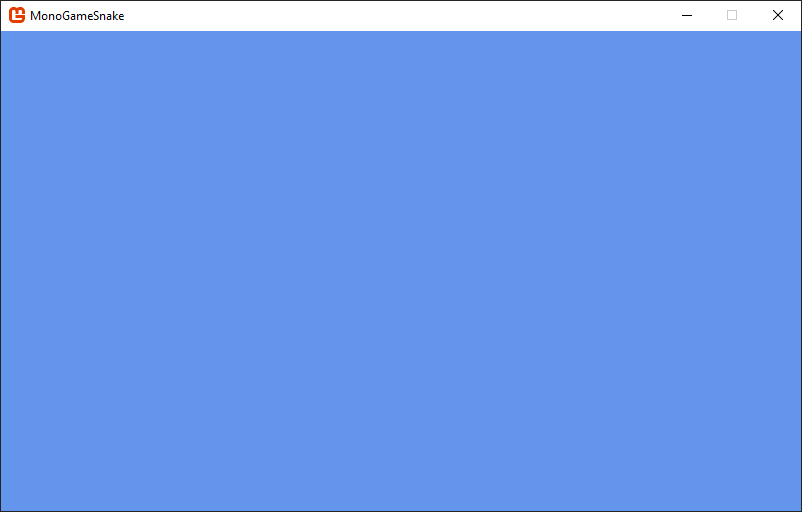
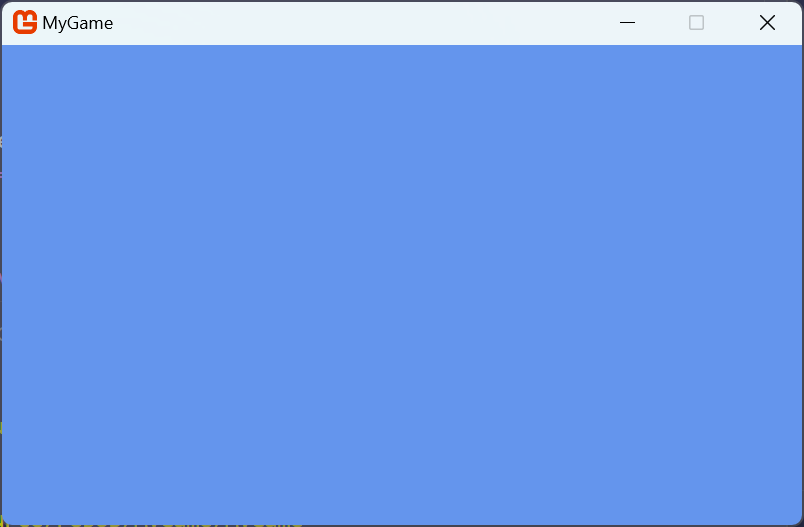
split chapter 3

Changed region(s): [[0.0, 0.0, 1.0, 1.0]]

diff --git a/documentation/03_hello_world.md b/documentation/03_hello_world.md
@@ -1,0 +1,93 @@
+# Chapter 3: Hello World - A Crash Course in MonoGame
+
+- [Creating a New Project](#creating-a-new-project)
+  - [Visual Studio 2022](#visual-studio-2022)
+  - [Visual Studio Code](#visual-studio-code)
+  - [Running The Game For The First Time](#running-the-game-for-the-first-time)
+- [Conclusion](#conclusion)
+
+
+---
+
+When learning a new programming language, tutorials will often start with some form of the "Hello World" program.  For example, a classic Hello World program in C# would look something like this
+
+```cs
+using System;
+
+namespace HelloWorldApplication
+{
+    public class Program
+    {
+        public static void Main(string[] args)
+        {
+            Console.WriteLine("Hello World");
+        }
+    }
+}
+```
+
+The entire point of the Hello World program is to introduce some usage of the language in as minimal an example as possible.  For this tutorial, our Hello World will be creating a new MonoGame project and running it.  
+
+## Creating a New Project
+To get started, we first need to create a new project. Follow the instructions below depending on if you ar using [Visual Studio 2022](#visual-studio-2022) or [Visual Studio Code](#visual-studio-code).
+
+### Visual Studio 2022
+To create a new MonoGame project in Visual Studio 2022:
+
+1. Launch the Visual Studio 2022 application.
+2. In the launch window, click the *Create New Project* button.
+3. In the *Project Type* drop-down, choose *MonoGame* to filter the templates to only show MonoGame project templates.
+4. Choose the *MonoGame Cross-Platform Desktop Application* project template, then click the *Next* button.
+5. Enter a name for the project and choose a location to save it
+6. Click the *Create* button.
+
+After clicking *Create*, a new C# project will be created based on the MonoGame template we picked and opened automatically in Visual Studio 2022.
+
+![New Project Created Visual Studio 2022](./images/chapter_03/vs.png)
+**Figure 3-1:** *A new MonoGame project after being created in Visual Studio 2022.*
+
+### Visual Studio Code
+To create a new MonoGame project in Visual Studio Code:
+
+1. Launch the Visual Studio Code application.
+2. Expand the *Explorer* panel if not already expanded with `CTRL/CMD+SHIFT+E`.
+3. CLick the *Create .Net Project* button.  (This button is not here by default, it's available because of the C# Dev Kit extension).
+4. In the prompt that opens, type `MonoGame` to filter the project templates.
+5. Choose the *MonoGame Cross-Platform Desktop Application* project template.
+6. In the dialog box that appears, choose the location to save the project.
+7. Enter a name for the project
+8. Select *Create Project*.
+
+After selecting *Create Project*, a new C# project will be created based on the MonoGame template chosen and opened automatically in Visual Studio Code.
+
+![Figure 3-2: A new MonoGame project after being created in Visual Studio Code.](./images/chapter_03/vscode.png)
+**Figure 3-2:** *A new MonoGame project after being created in Visual Studio Code.*
+
+### Running The Game For The First Time
+Congratulations, you've just created your very first MonoGame project above. We'll cover what each of these files generated are in the following chapters, for now let's run the project as is and see the results.  You can press the `F5` key on your keyboard to run the application in debug mode regardless of you are using Visual Studio 2022 or Visual Studio Code.
+
+> [!TIP]
+> - In Visual Studio 2022, you can also run the project by clicking the run button in the tool bar at the top, or by selecting *Debug > Start Debugging* from the top menu
+> - In Visual Studio Code, you can also run the project by opening the *Solution Explorer* panel on the left, then right-clicking the project and selecting *Debug > Start New Instance*, or alternatively selecting *Run > Start Debugging* from the top menu.
+
+> [!NOTE]
+> The first time you build a MonoGame project, a dotnet restore will be executed, which will download the NuGet packages used by the MonoGame project.  If they've never been restored before, then they will be downloaded from the official NuGet feed.  One of the tool packages, The *dotnet-mgcb* package is ~400mb, so depending on your internet connection speed, it may take a moment for the first build to finish.  Once the packages have been downloaded for the first time, they are cached in your global NuGet directory, so subsequent builds and projects will not have to download them.
+
+Be amazed, the default MonoGame cornflower blue game window
+
+![Figure 3-3: The default MonoGame cornflower blue game window.](./images/chapter_03/cornflower_blue.png)  
+**Figure 3-3:** *The default MonoGame cornflower blue game window.*
+
+
+While there isn't much happening here visually, there is a lot going on behind the scenes that the MonoGame framework is handling for you.  When you ran the application, the game initialization started which initializes the graphics device and creates the game window.  It's also running the main game loop over and over to render the cornflower blue background at 60 frames per second.  Additionally, it is also managing polling input from the keyboard, mouse, and any connected gamepads for the game window.  You can test this yourself by pressed the `Esc` key on your keyboard and the game will exit.
+
+If you were to set all of this up manually, it could take hours of research and thousands of lines of code written just to get the window rendering and input polling.  Instead, we can take advantage of this base starting point that MonoGame offers us to get started creating our game without having to worry about the lower level implementations like this.
+
+> [!NOTE]
+> Above we mentioned the main *game loop* running to render the game at 60fps.  Game applications work differently than a traditional desktop application like your web browser.  Desktop applications are event based, meaning once loaded, they do not do much at all while waiting for input from the user, and then it responds to that input event.  In games, things are always happening such as objects moving around like the player or particles.  To handle this, games implement a loop structure that runs continuously, first calling the Update method and then the Draw method, until it has been told to exit.
+
+
+## Conclusion
+In this chapter, we created a new MonoGame game project and ran it.  In the following chapters, we'll discuss the files that are generated when a new MonoGame project is created, dive into the *Game1.cs* file, and discuss the content pipeline.
+
+[Go to Chapter 4: MonoGame Project Overview](./04_monogame_project_overview.md)

diff --git a/documentation/04_monogame_project_overview.md b/documentation/04_monogame_project_overview.md
@@ -10,15 +10,15 @@
 
 ---
 
-In the [previous chapter](./03_hello_world_a_crash_course_in_monogame.md) we did a crash course in creating a new MonoGame project and writing the initial prototype for our MonoGameSnake game.  While we touched on concepts of MonoGame in code, we did not discuss the actual files that are included by default when you create a new MonoGame project.  After creating a project using one of the MonoGame templates, the project structure will be similar to the following: 
+In the [previous chapter](./03_hello_world.md) we created a new MonoGame project using one of the MonoGame project templates. Using the templates to create a new project automatically generates files and a project structure as a starting point for a new game.  The project structure will be similar to the following: 
 
 ```
-MonoGameSnake
+MyGame
 |   app.manifest
 |   Game1.cs
 |   Icon.bmp
 |   Icon.ico
-|   MonoGameSnake.csproj
+|   MyGame.csproj
 |   Program.cs
 |
 +---.config
@@ -28,7 +28,7 @@ MonoGameSnake
         Content.mgcb
 ```
 
-This is the project structure you would see when creating a MonoGame project targeting desktops.  Projects that target mobile devices such as Android or iOS will contain the same files along with some additional manifest files specific for those devices, which are not covered in this document. Some of these files are standard files you would find in any C# project, such as the *.csproj* C# project file, *app.manifest* application manifest file, and *dotnet-tools.json* tools manifest file.  Discussing these common files in detail is out of scope for this documentation, though we will touch on some brief concepts of them below.  If you would like to learn more about them you can find the official documentation on Microsoft Learn at the following links:
+This is the project structure you would see when creating a MonoGame project targeting desktops.  Projects that target mobile devices such as Android or iOS will contain the same files along with some additional manifest files specific for those devices, which are not covered in this tutorial. Some of these files are standard files you would find in any C# project, such as the *.csproj* C# project file, *app.manifest* application manifest file, and *dotnet-tools.json* tools manifest file.  Discussing these common files in detail is out of scope for this tutorial, though we will touch on the contents of them.  If you would like to learn more about these project files, you can find the official documentation on Microsoft Learn at the following links:
 
 - [Understanding The Project File](https://learn.microsoft.com/en-us/aspnet/web-forms/overview/deployment/web-deployment-in-the-enterprise/understanding-the-project-file)
 - [Application Manifests](https://learn.microsoft.com/en-us/windows/win32/sbscs/application-manifests)

diff --git a/documentation/06_the_content_pipeline.md b/documentation/06_the_content_pipeline.md
@@ -9,8 +9,7 @@
 - [Conclusion](#conclusion)
 
 ---
-
-In [Chapter 3](./03_hello_world_a_crash_course_in_monogame.md) we got a quick look at using the *content pipeline* to add both images and audio assets to our game.  In this chapter, we'll explore the *content pipeline* in more detail, discuss the advantages of using it, and how the entire workflow executes from start to finish.
+In this chapter, we'll explore the *content pipeline* in more detail, discuss the advantages of using it, and how the entire workflow executes from start to finish.
 
 ## What Is The Content Pipeline?
 The *content pipeline* is an out-of-the-box workflow provided by the MonoGame framework for managing the various types of assets that go into your game.  These assets can include images uses for textures, audio files used for sound effects and/or songs, fonts, 3D models, and shaders.  However it's not limited to just these asset types.  The MonoGame framework provides projects that developers can use to create extensions for the pipeline for custom asset types not handled by default.  Since the *content pipeline* itself is a workflow, it's made up of different components used at design time, build time, and run time in your game project.  These components include
@@ -123,6 +122,6 @@ You also get the benefits offered at runtime with the *ContentManager class* men
 The content pipeline isn't a requirement to develop games with MonoGame; raw assets can be loaded at runtime using methods such as `Texture2D.FromFile()`.  In some cases, especially for really small games or prototypes, development time can be faster to just do this instead of going through the MGCB Editor to add assets and having them be preprocessed.  As the number of assets for the game grows, optimizing the content loaded is going to start becoming a priority.  Learning to use the content pipeline from the start is going to outweigh the benefits of quick development time.  
 
 ## Conclusion
-In this chapter we discussed the components that make up the content pipeline, how they work together to compile assets, and the benefits of using the content pipeline. Now that we've covered the foundational topics of MonoGame, in the next chapter we'll take the prototype we created in [Chapter 03](./03_hello_world_a_crash_course_in_monogame.md) and expand it to design and create a finished game from it.
+In this chapter we discussed the components that make up the content pipeline, how they work together to compile assets, and the benefits of using the content pipeline. Now that we've covered the foundational topics of MonoGame, in the next chapter we'll start designing the game we're going to make and create the initial project structure.
 
 [Go to Chapter 07: Designing MonoGameSnake](./07_designing_monogamesnake.md)

diff --git a/documentation/05_the_game_class.md b/documentation/05_the_game_class.md
@@ -125,7 +125,7 @@ protected override void LoadContent()
 
 The default implementation provided in the template instantiates a new instance of the `SpriteBatch` and stores it in the `_spriteBatch` instance member.  When creating a new `SpriteBatch` instance, it requires that an instance of the `GraphicsDevice` object type be given to it.  Here we pass in the one that is provided as a property from the `Game` class inheritance. 
 
-Content loading and managing assets will be discussed in [{TODO ADD CHAPTER}]({TODO ADD CHAPTER LINK}), for now, it's only important to know that his is where you can load your game assets at.
+Content loading and managing assets will be discussed in later chapters, for now, it's only important to know that his is where you can load your game assets at.
 
 ## The Game Loop
 After the initializations and content loading have finished, the framework will enter into the *game loop*.  The *game loop* is where hte framework will call `Update()` and then `Draw()` over and over to run the actual game until it's told to exit.  
